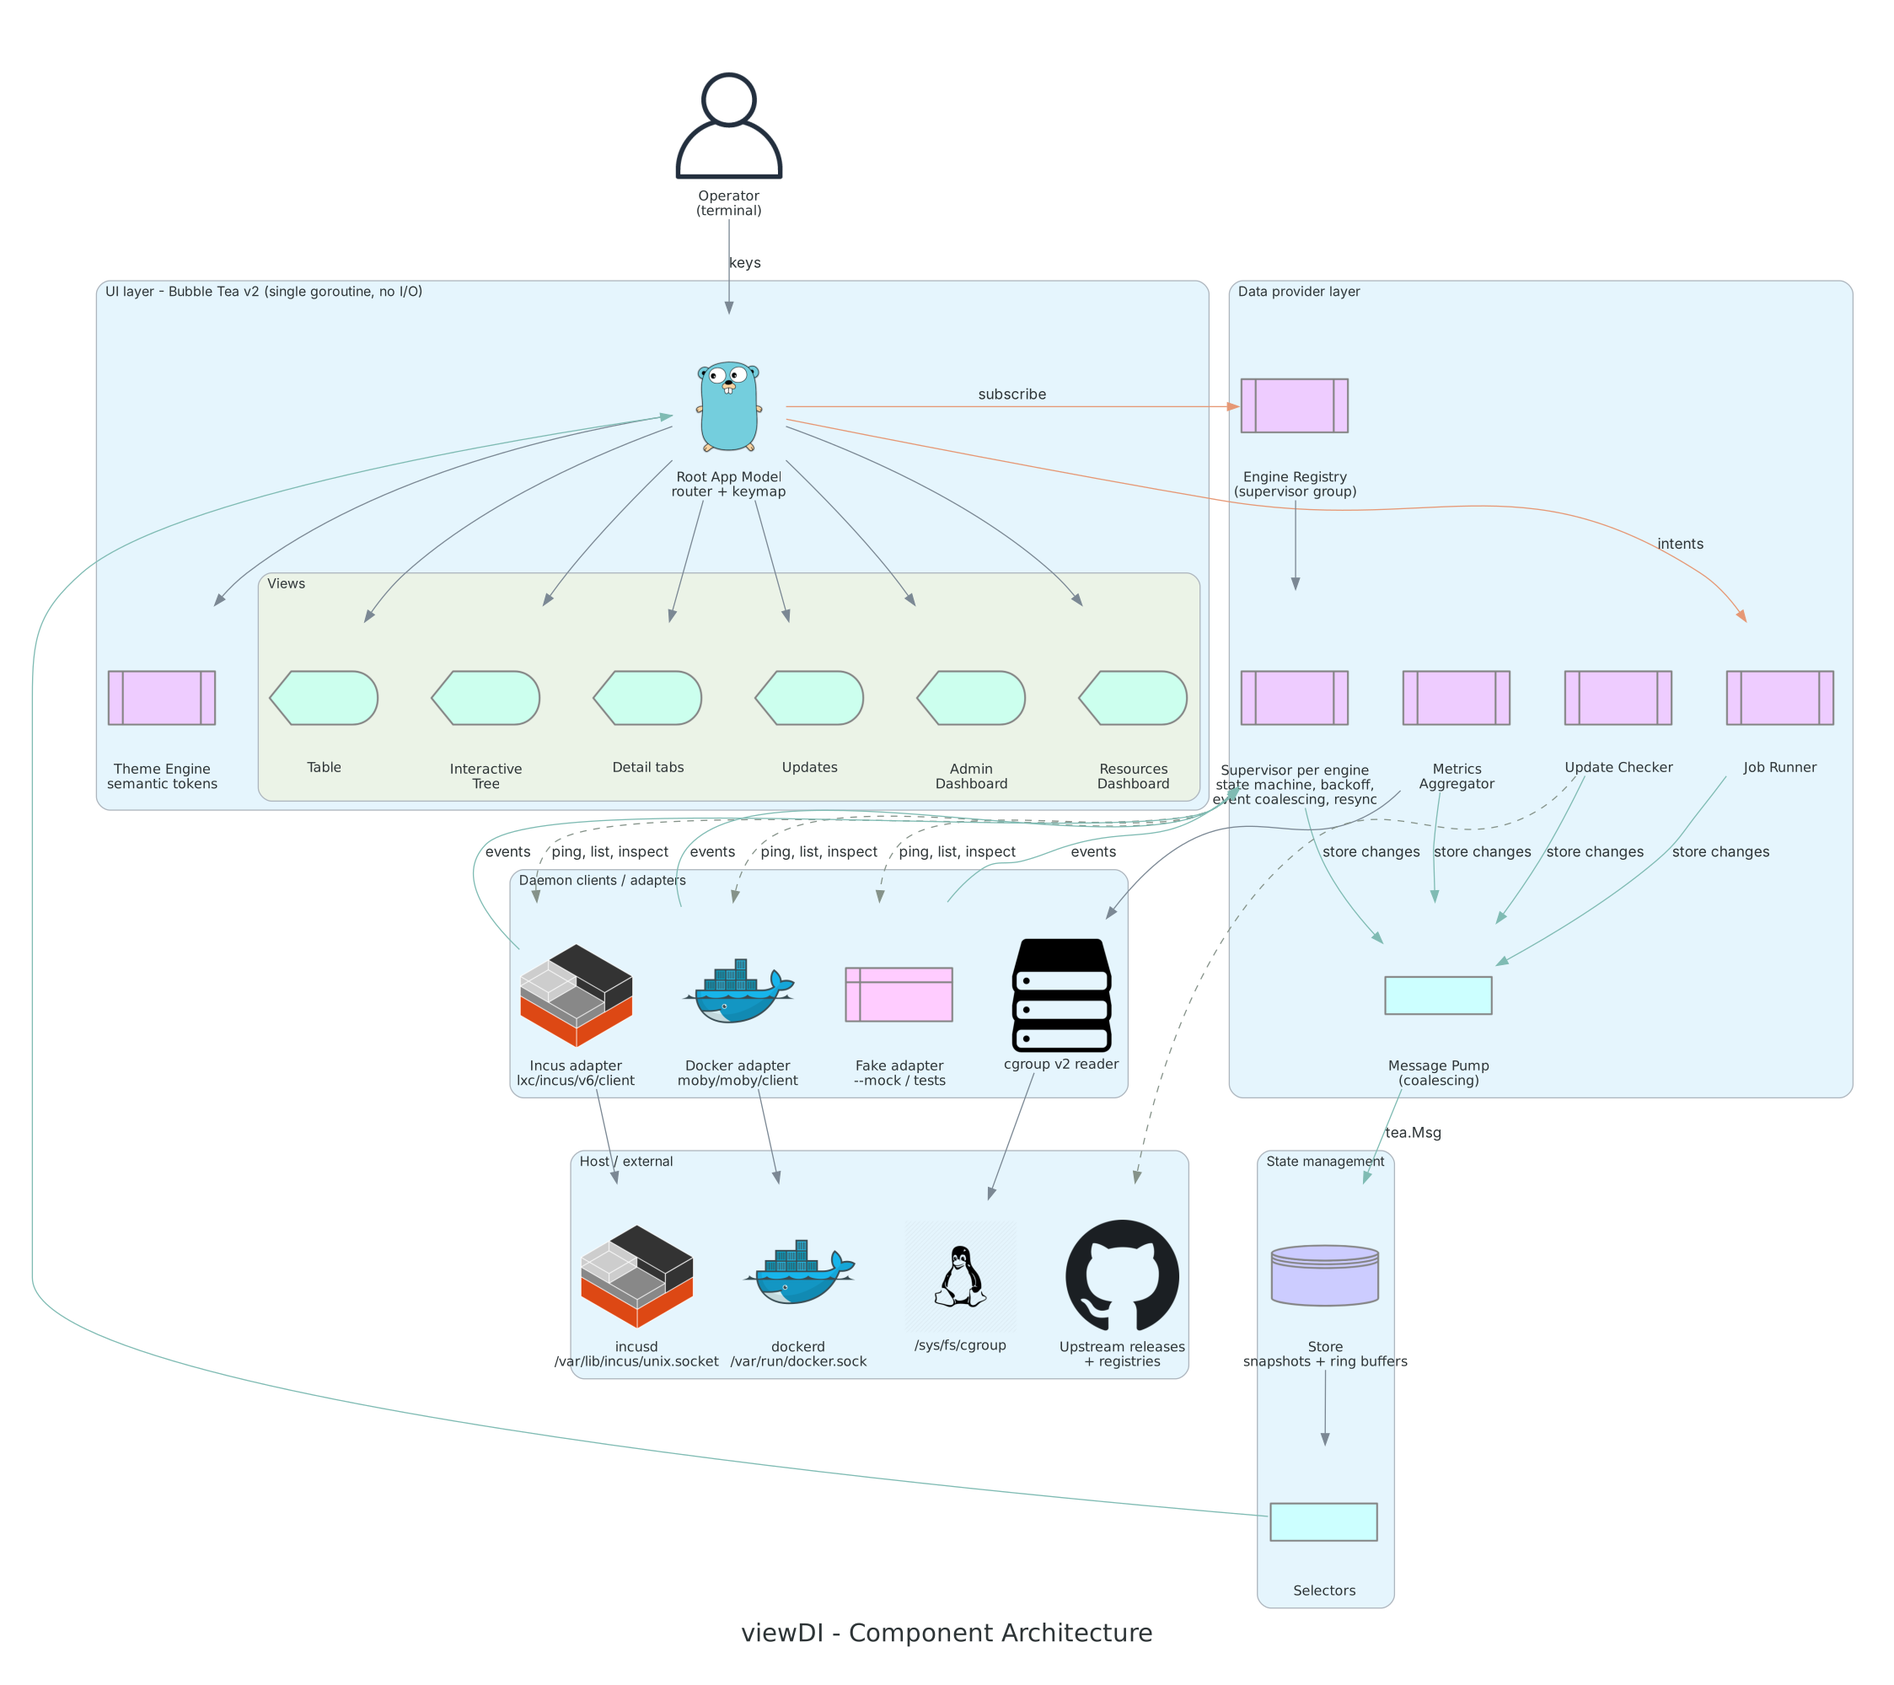
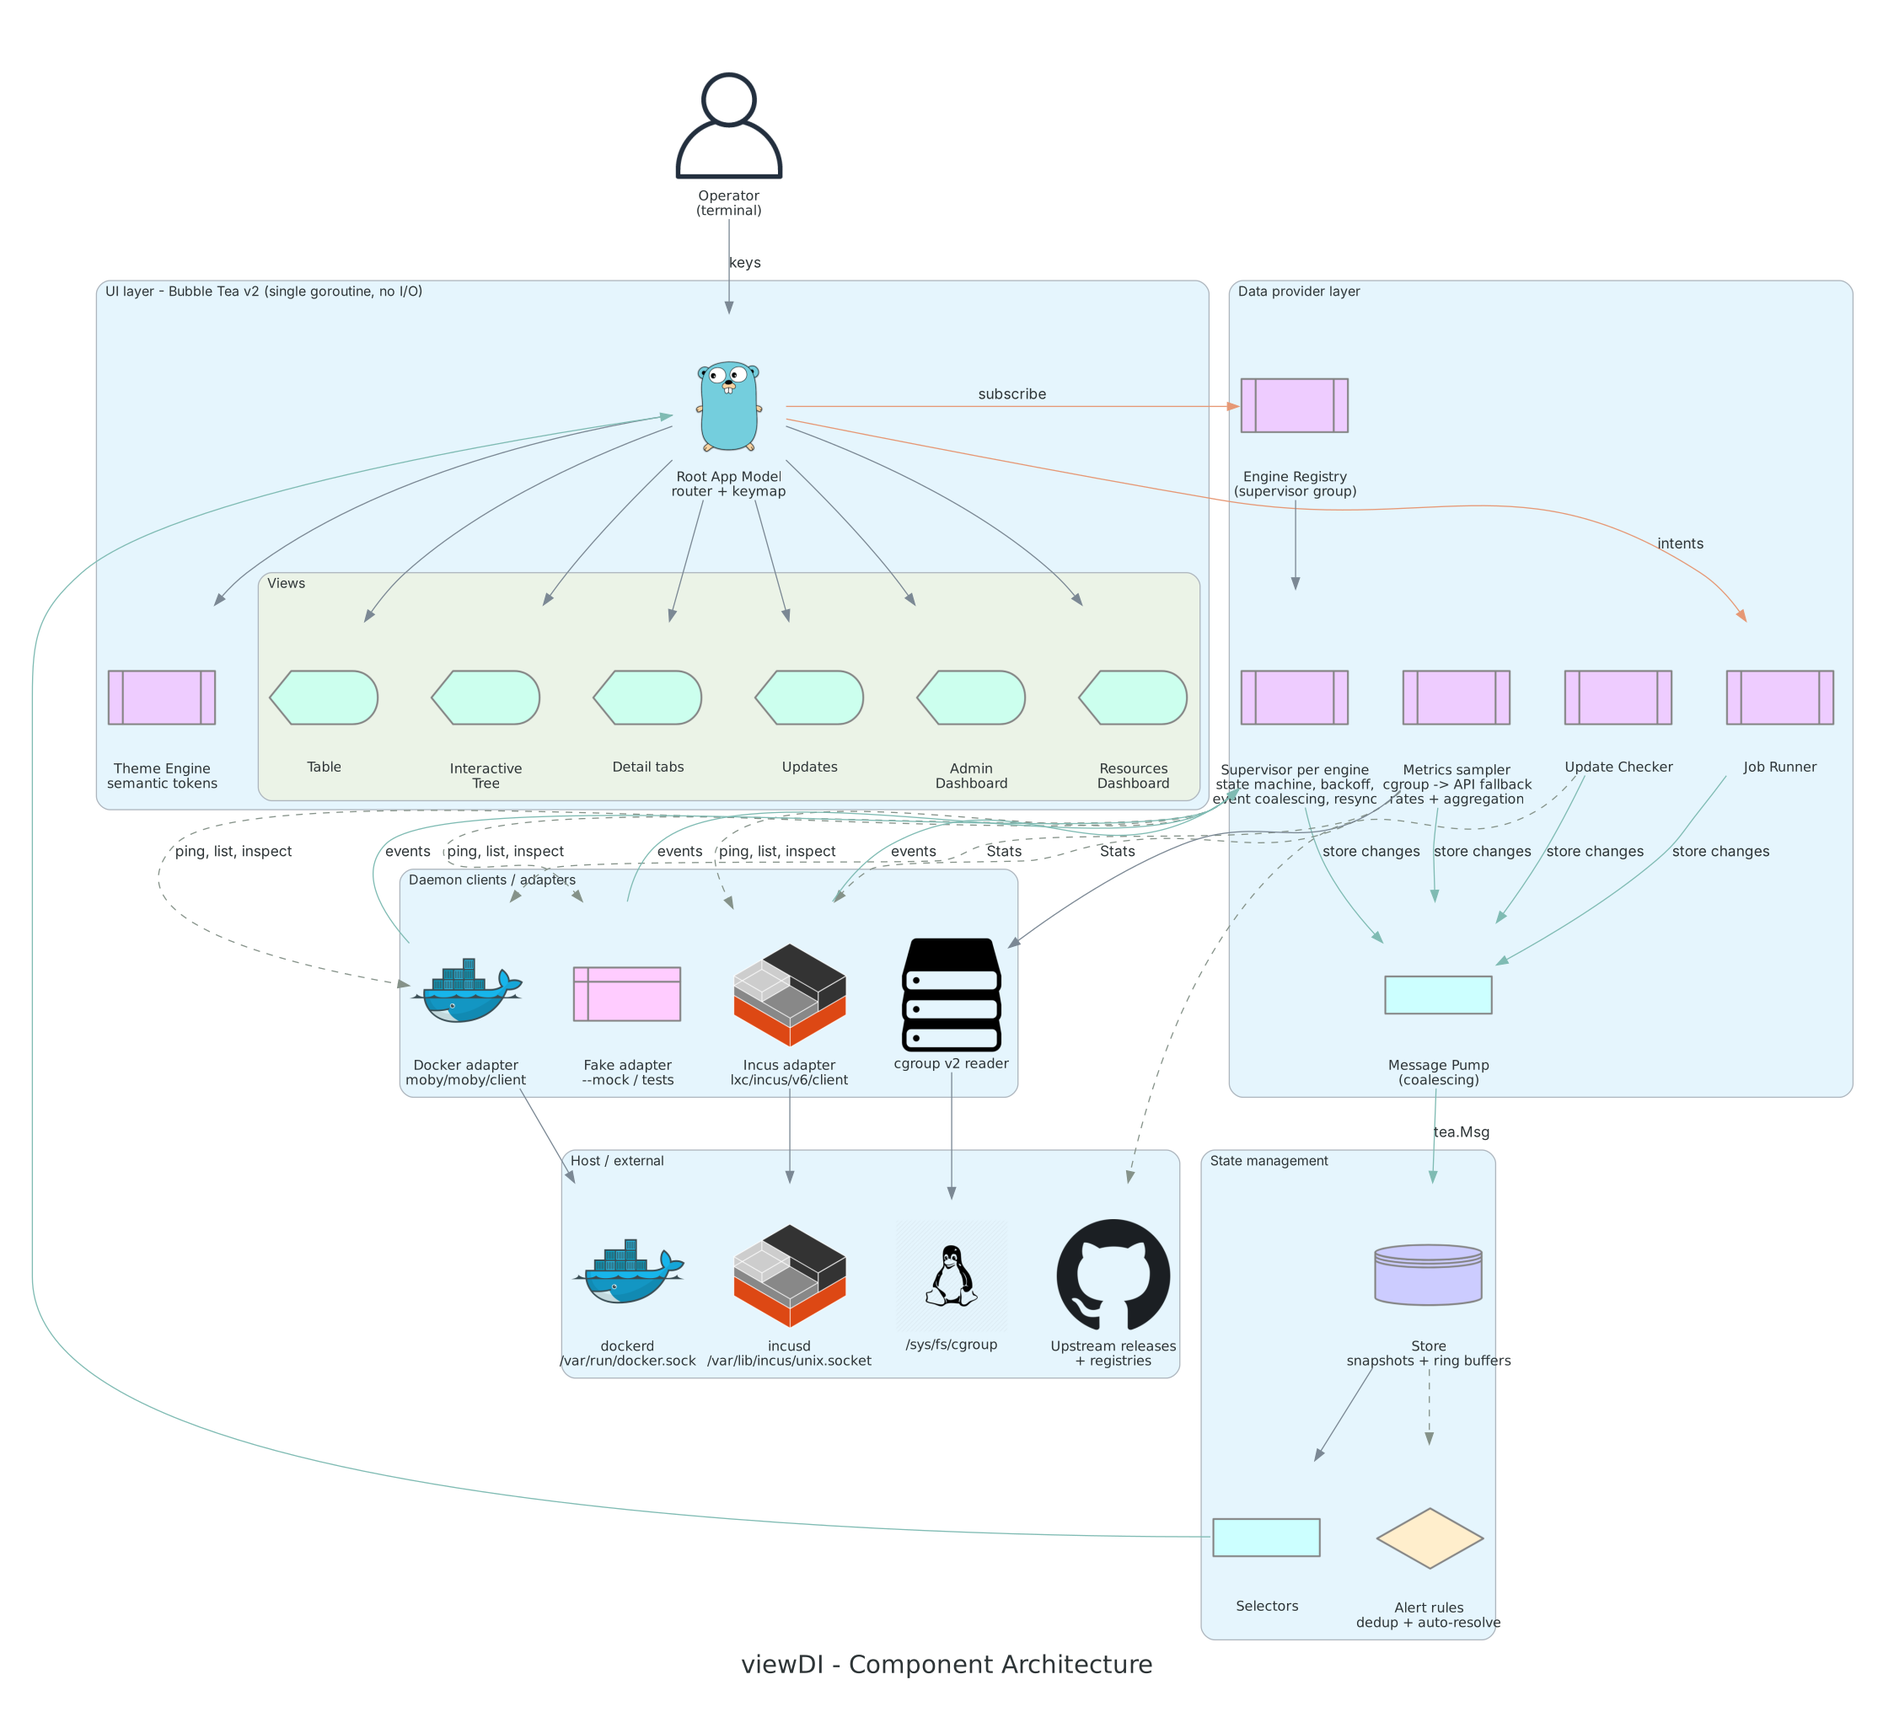
docs: Stage 2 delivered notes, diagram and demo
Trend-scaled sparklines (a steady value draws a mid-height line), the
last totals of a degraded engine stay on screen dimmed, the Admin card
wraps the fix hint, and the first sampler pass no longer pushes a zero
total. Architecture diagram gains the metrics sampler and alert rules;
README, CLAUDE.md (packages, import rules, [alerts]) and the plan are
updated; demo recorded with vhs.

diff --git a/docs/diagrams/generate.py b/docs/diagrams/generate.py
@@ -82,11 +82,12 @@ def architecture() -> None:
         with Cluster("State management"):
             store = Database("Store\nsnapshots + ring buffers")
             selectors = Action("Selectors")
+            alert_rules = Decision("Alert rules\ndedup + auto-resolve")
 
         with Cluster("Data provider layer"):
             registry = PredefinedProcess("Engine Registry\n(supervisor group)")
             supervisor = PredefinedProcess("Supervisor per engine\nstate machine, backoff,\nevent coalescing, resync")
-            metrics = PredefinedProcess("Metrics\nAggregator")
+            metrics = PredefinedProcess("Metrics sampler\ncgroup -> API fallback\nrates + aggregation")
             jobs = PredefinedProcess("Job Runner")
             updates = PredefinedProcess("Update Checker")
             pump = Action("Message Pump\n(coalescing)")
@@ -108,6 +109,7 @@ def architecture() -> None:
         app >> views
         selectors >> Edge(color=DATA) >> app
         store >> selectors
+        store >> Edge(style="dashed", color=MUTED) >> alert_rules
 
         app >> Edge(label="intents", color=CONTROL) >> jobs
         app >> Edge(label="subscribe", color=CONTROL) >> registry
@@ -116,6 +118,7 @@ def architecture() -> None:
         supervisor >> Edge(label="ping, list, inspect", style="dashed", color=MUTED) >> [docker_ad, incus_ad, fake_ad]
         [docker_ad, incus_ad, fake_ad] >> Edge(label="events", color=DATA) >> supervisor
         metrics >> cgroup
+        metrics >> Edge(label="Stats", style="dashed", color=MUTED) >> [docker_ad, incus_ad]
         updates >> Edge(style="dashed", color=MUTED) >> upstream
 
         [supervisor, metrics, jobs, updates] >> Edge(label="store changes", color=DATA) >> pump

diff --git a/internal/ui/components/sparkline/sparkline.go b/internal/ui/components/sparkline/sparkline.go
@@ -37,6 +37,44 @@ func Render(values []float64, width int, top float64) string {
 	return b.String()
 }
 
+// RenderRange draws values like Render, scaled between lo (lowest block)
+// and hi (full block).
+func RenderRange(values []float64, width int, lo, hi float64) string {
+	if width <= 0 {
+		return ""
+	}
+	vals := Downsample(values, width)
+	var b strings.Builder
+	b.Grow(width * 3)
+	b.WriteString(strings.Repeat(" ", width-len(vals)))
+	for _, v := range vals {
+		if hi <= lo {
+			b.WriteRune(blocks[0])
+			continue
+		}
+		i := int((v - lo) / (hi - lo) * float64(len(blocks)-1))
+		b.WriteRune(blocks[min(max(i, 0), len(blocks)-1)])
+	}
+	return b.String()
+}
+
+// Trend draws values scaled to their own range, so changes are visible
+// whatever the magnitude; a nearly constant series draws a mid-height line.
+func Trend(values []float64, width int) string {
+	if len(values) == 0 {
+		return RenderRange(nil, width, 0, 1)
+	}
+	lo, hi := values[0], values[0]
+	for _, v := range values {
+		lo, hi = min(lo, v), max(hi, v)
+	}
+	span := hi - lo
+	if span <= 0.05*hi || span == 0 {
+		return RenderRange(values, width, 0, 2*hi+1)
+	}
+	return RenderRange(values, width, max(0, lo-span*0.25), hi+span*0.1)
+}
+
 // Downsample reduces values to at most n buckets, keeping each bucket's
 // maximum. Shorter series are returned unchanged.
 func Downsample(values []float64, n int) []float64 {

diff --git a/internal/ui/views/resources/resources.go b/internal/ui/views/resources/resources.go
@@ -179,18 +179,13 @@ func (v *View) engineLines(s *theme.Styles, id engine.ID, ev store.EngineView, p
 		return out
 	}
 	gw := max(6, inner/4)
-	// Sparklines show the trend: scaled to the series' own peak with some
-	// headroom, so a steady value draws a flat line, not a full bar.
+	// Sparklines show the trend, scaled to the series' own range.
 	spark := func(vals []float64, used float64, st lipgloss.Style) string {
 		w := inner - int(used)
 		if w < 4 {
 			return ""
 		}
-		top := 0.0
-		for _, v := range vals {
-			top = max(top, v)
-		}
-		return " " + st.Render(sparkline.Render(vals, w-1, top*1.25))
+		return " " + st.Render(sparkline.Trend(vals, w-1))
 	}
 	ncpu := float64(max(1, ev.Info.NCPU))
 	cpuFrac := p.CPU / (ncpu * 100)

diff --git a/internal/store/metrics.go b/internal/store/metrics.go
@@ -83,7 +83,15 @@ func (s *Store) applySample(c MetricsSampled) {
 	totals := map[engine.ID]metrics.Point{}
 	for id, h := range c.Health {
 		if h.Source == "" {
-			continue // engine not sampled this pass (degraded): no point
+			// Not sampled this pass (degraded): keep the last total, which
+			// the dashboards show dimmed as stale data.
+			if old, ok := m.totals[id]; ok {
+				totals[id] = old
+			}
+			continue
+		}
+		if len(byEngine[id]) == 0 && h.Instances > 0 {
+			continue // first pass: counters read, no rates yet
 		}
 		total := metrics.Sum(c.At, byEngine[id])
 		totals[id] = total

diff --git a/internal/ui/views/admin/admin.go b/internal/ui/views/admin/admin.go
@@ -137,8 +137,8 @@ func (v *View) card(s *theme.Styles, id engine.ID, width int, focused bool, now 
 	}
 	lines := []string{row(s, "Status", s.LevelText(level).Render("● ")+s.Text.Render(state)+s.Muted.Render(mode))}
 	if !ev.InfoKnown {
-		if h.Hint != "" {
-			lines = append(lines, s.Text.Render(h.Hint))
+		if h.Hint != "" { // wrapped: the hint is the fix the user needs
+			lines = append(lines, s.Text.Width(max(10, width-4)).Render(h.Hint))
 		}
 		return panel.Render(s, id.Label()+" daemon", strings.Join(lines, "\n"), width, cardH, focused)
 	}

diff --git a/internal/ui/components/sparkline/sparkline_test.go b/internal/ui/components/sparkline/sparkline_test.go
@@ -32,3 +32,15 @@ func TestRender(t *testing.T) {
 		t.Fatal("spike lost")
 	}
 }
+
+func TestTrend(t *testing.T) {
+	if got := Trend([]float64{100, 100, 101, 100}, 4); got != "▄▄▄▄" {
+		t.Fatalf("steady: %q", got)
+	}
+	if r := []rune(Trend([]float64{1000, 1100, 1200}, 3)); r[0] >= r[1] || r[1] >= r[2] {
+		t.Fatalf("rising: %q", string(r))
+	}
+	if got := Trend(nil, 2); got != "  " {
+		t.Fatalf("empty: %q", got)
+	}
+}

diff --git a/README.md b/README.md
@@ -3,11 +3,13 @@
 A native Linux terminal UI that manages, visualises and monitors **Docker** and **Incus**
 side by side.
 
-> Status: **Stage 1** — both engines connected (read-only): a sortable, filterable
-> Table view of every container and VM, live engine status, reconnect banner and fix
-> hints. Metrics arrive in Stage 2. See `docs/04-development-plan.md`.
+> Status: **Stage 2** — both engines connected (read-only) with live metrics: Admin
+> dashboard (daemon cards, alerts, recent events), Resources dashboard (per-engine CPU,
+> RAM, network and disk with sparklines, top consumers), and a sortable, filterable Table
+> view with live CPU and memory. Detail views arrive in Stage 3. See
+> `docs/04-development-plan.md`.
 
-![Stage 1 demo](docs/demos/stage-1.gif)
+![Stage 2 demo](docs/demos/stage-2.gif)
 
 ## Build and run
 
@@ -22,7 +24,12 @@ make mock           # run with fake engines, no daemons needed
 Keys: `1`–`6` switch views, `tab` cycles panes, `T` opens the theme picker (live preview),
 `?` shows every binding, `q` quits. In the Table view (`3`): `/` filter, `e` engine
 filter, `o`/`O` sort, `P` Incus project, `ctrl+r` reconnect. The full key map is in
-`docs/03-mockups.md`. `--mock=chaos` cycles through daemon failures.
+`docs/03-mockups.md`. In Resources (`2`): `o`/`O` sort the top consumers, `+`/`-` change
+the refresh rate. `--mock=chaos` cycles through daemon failures.
+
+Metrics are read from cgroup v2 files when possible (one pass for every container) and
+through the engine APIs otherwise (Incus VMs, rootless setups without readable cgroups);
+sampling slows to every 5 s while no metrics view is visible.
 
 Daemons are discovered automatically (`--docker-host`/`DOCKER_HOST`, rootless then
 rootful Docker; `--incus-socket`/`INCUS_SOCKET`, then `unix.socket`, then
@@ -33,12 +40,25 @@ otherwise viewDI shows the exact fix.
 
 | File | Purpose |
 |---|---|
-| `~/.config/viewDI/config.toml` | settings (`[ui]`, `[docker] host`, `[incus] socket`, `[updates]`), never rewritten by the app |
+| `~/.config/viewDI/config.toml` | settings (`[ui]`, `[docker] host`, `[incus] socket`, `[alerts]`, `[updates]`), never rewritten by the app |
 | `~/.config/viewDI/themes/*.toml` | user themes; same name overrides a built-in |
 | `~/.config/viewDI/keys.toml` | key overrides, e.g. `[global]` `theme = "ctrl+t"` |
 | `~/.local/state/viewDI/state.json` | UI state (last view, theme, table sort, Incus project), written atomically |
 
 Invalid files never stop the app: defaults are used and a warning toast explains why.
+
+Alert thresholds (defaults shown):
+
+```toml
+[alerts]
+memory_percent = 90      # of the memory limit…
+memory_for     = "30s"   # …sustained this long
+cpu_percent    = 90      # of the CPU limit (or of one core without a limit)
+cpu_for        = "1m"
+restart_count  = 3       # starts…
+restart_window = "10m"   # …within this window
+unhealthy_for  = "0s"    # failing healthcheck
+```
 
 Built-in themes: Everforest (dark/light), Dracula, Catppuccin (Mocha/Latte), Monokai,
 Gruvbox, Nord, Tokyo Night.

diff --git a/CLAUDE.md b/CLAUDE.md
@@ -83,7 +83,9 @@ viewDI/
 │   │   ├── incus/          # Incus adapter (incus client)
 │   │   └── fake/           # scriptable fake engine for tests and --mock mode
 │   ├── supervisor/         # health checks, reconnect state machine, backoff
-│   ├── metrics/            # rate computation, cgroup v2 reader, aggregation
+│   ├── metrics/            # rates, history rings, aggregation, formatting; cgroup/ (v2
+│   │                       # reader), openmetrics/ (Incus parser), sampler/ (scheduler)
+│   ├── alerts/             # alert rules: dedup by stable ID, hold times, auto-resolve
 │   ├── store/              # app state, ring buffers, snapshots/selectors
 │   ├── jobs/               # long-running operations (create/import/delete) + progress
 │   ├── updates/            # engine + image update checker, sources, scheduler, notifier
@@ -101,9 +103,10 @@ viewDI/
 ```
 
 Import rules:
-- `internal/ui/**` may import `engine` (types), `store`, `ui/theme`, `ui/keys`, and
-  `config` (the `Warning` type and `ReadCapped`, used by the theme and key loaders that
-  `main` calls at startup — never from `Update`). It must **never** import `provider/*`,
+- `internal/ui/**` may import `engine` (types), `store`, `metrics` (the `Point` type and
+  formatting helpers — not `metrics/cgroup` or `metrics/sampler`), `alerts` (types),
+  `ui/theme`, `ui/keys`, and `config` (the `Warning` type and `ReadCapped`, used by the
+  theme and key loaders that `main` calls at startup — never from `Update`). It must **never** import `provider/*`,
   `supervisor`, or daemon SDKs.
 - `provider/*` must not import anything under `ui`.
 - Wiring lives only in `cmd/viewdi` and `internal/app`.
@@ -148,6 +151,7 @@ tests), `--pprof=<addr>` (localhost only), `--theme <name>`, `--docker-host <uri
 - UI state: `~/.local/state/viewDI/state.json` (app-owned, atomic writes)
 - Debug log: `~/.local/state/viewDI/viewdi.log`
 - Cache: `~/.cache/viewDI/` (including `updates.json`)
+- Engine endpoints: `[docker] host`, `[incus] socket`; alert thresholds: `[alerts]`.
 - Update checks: `[updates]` section of `config.toml` (see `docs/01-research.md` §3.4).
   `enabled = false` guarantees no outbound network calls.
 

diff --git a/docs/04-development-plan.md b/docs/04-development-plan.md
@@ -193,6 +193,24 @@ Acceptance criteria:
 - With 50 running containers at 1 Hz: viewDI CPU < 2 % of one core (see budgets).
 - Alerts appear and resolve automatically; no duplicate alerts on reconnect.
 
+Delivered notes (2026-10-29):
+- `engine.Stats` reads cumulative counters for many instances in one call: Docker one-shot
+  stats (memory without the inactive page cache, like `docker stats`), Incus one
+  `/1.0/metrics` request (fuzzed OpenMetrics parser) with an instance-state fallback for
+  restricted sockets, synthetic profiles (flat / sine / spike) in the fake.
+- Sampler: one pass per interval over every running instance of every connected engine;
+  cgroup v2 first (path from `/proc/<pid>/cgroup`, then the known layouts; a failing
+  cgroup moves the instance to the API path for 60 s), one `Stats` batch per engine for
+  the rest. Interval: the refresh rate while Admin, Resources or Table is visible and the
+  terminal focused, 5 s otherwise; `+`/`-` step 250 ms–2 s. Measured: a 50-container
+  cgroup pass ≈ 2.5 ms.
+- History: 300 points per instance and per engine (5 min at 1 s); passes are lossy.
+- Alerts (`internal/alerts`) are evaluated in the UI goroutine on every change and on
+  the render clock; alerts of a disconnected engine are frozen until it reconnects.
+- The ±5 % accuracy and < 2 % CPU criteria still need a real host; CI covers them with
+  the fake engine, cgroup fixtures and benchmarks.
+- Demo: `docs/demos/stage-2.tape` → `docs/demos/stage-2.gif`.
+
 ---
 
 ## Stage 3 — Detail View

diff --git a/docs/02-architecture.md b/docs/02-architecture.md
@@ -15,8 +15,8 @@ Layers, top to bottom:
 | Layer | Responsibility | Packages |
 |---|---|---|
 | **UI** | Bubble Tea v2 root model, router, keymap, views, components, theme. Single goroutine; pure `Update`/`View`, no I/O. | `internal/app`, `internal/ui/**` |
-| **State management** | Store with instance index, networks, metric ring buffers, aggregated totals, alerts, jobs, update results, engine health. Views read immutable snapshots through selectors. | `internal/store` |
-| **Data provider** | Engine registry, supervisor (health/backoff), metrics aggregator, job runner, update checker, message pump. | `internal/supervisor`, `internal/metrics`, `internal/jobs`, `internal/updates`, `internal/app` (pump) |
+| **State management** | Store with instance index, networks, metric ring buffers, aggregated totals, alerts (rules in `internal/alerts`), recent events, jobs, update results, engine health. Views read snapshots through selectors. | `internal/store`, `internal/alerts` |
+| **Data provider** | Engine registry, supervisor (health/backoff), metrics sampler (cgroup → API fallback), job runner, update checker, message pump. | `internal/supervisor`, `internal/metrics/**`, `internal/jobs`, `internal/updates`, `internal/app` (pump) |
 | **Daemon clients** | Docker adapter, Incus adapter, fake adapter, cgroup v2 reader. | `internal/provider/*`, `internal/metrics/cgroup` |
 | **Host / external** | `dockerd`, `incusd`, `/sys/fs/cgroup`, upstream release feeds and registries. | — |
 
